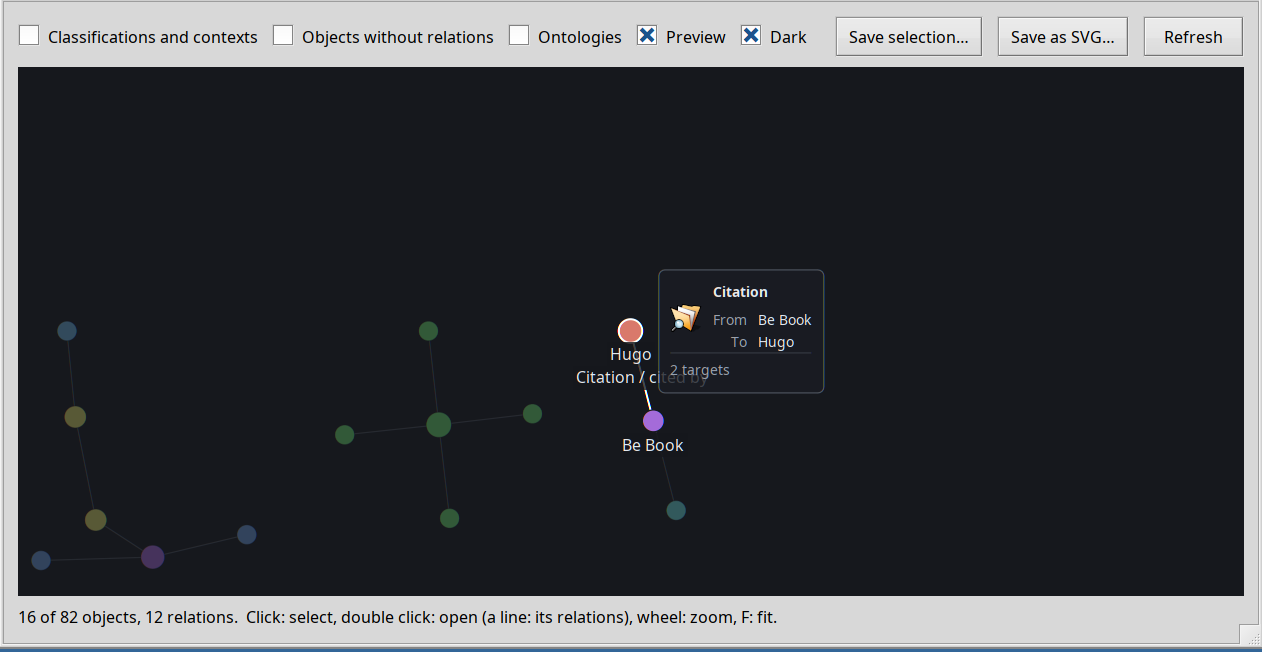
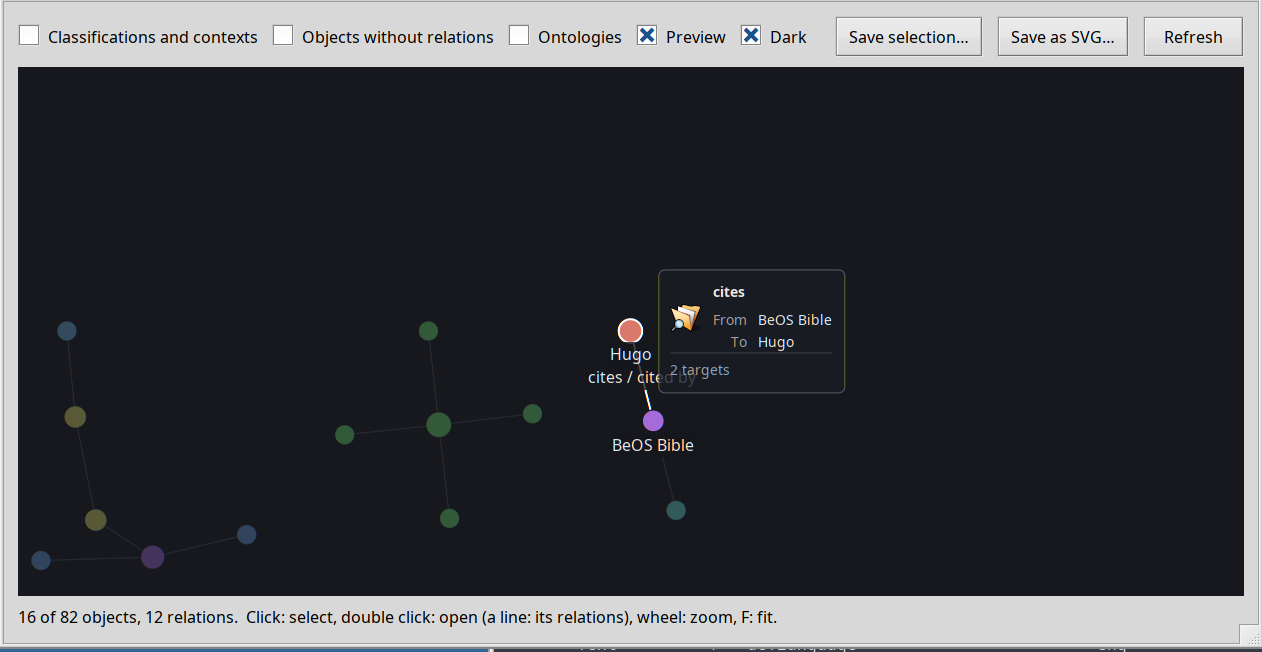
SenKey.h: the SEN key as a setting that the knot and Akita share; release notes of beta 3 reviewed
The notes: the wording of the author (beta 2 introduced the graph view, cards are new), screenshots
with the labels "cites / cited by".

diff --git a/src/cpp/include/SenKey.h b/src/cpp/include/SenKey.h
@@ -1,0 +1,64 @@
+/*
+ * SPDX-License-Identifier: MIT
+ * SPDX-FileCopyrightText: 2026 SEN Labs e.U.
+ */
+#pragma once
+
+/**
+ * @file SenKey.h
+ * @brief The SEN key: the modifier key that switches a click or a drag to SEN (header only, Haiku only).
+ *
+ * The key is a setting of SEN (`SEN:modifierKey` in the settings of the server, chosen in its Settings window): by default the standard shortcut key of Haiku (B_COMMAND_KEY, which key of the
+ * keyboard that is depends on the key map), or Option, Control or Shift. The programs that look at the key (the knot in the Deskbar, Akita) ask here instead of testing a key of their own.
+ *
+ *     if (sen::SenKeyIsDown()) ...      // in a click or a drag
+ */
+
+#include <Autolock.h>
+#include <File.h>
+#include <FindDirectory.h>
+#include <InterfaceDefs.h>
+#include <Locker.h>
+#include <Message.h>
+#include <OS.h>
+#include <Path.h>
+
+#include "SenMessages.h"
+
+namespace sen {
+
+/** The modifier of the SEN key: B_COMMAND_KEY (the standard), B_OPTION_KEY, B_CONTROL_KEY or B_SHIFT_KEY. The file of the settings is read once a second, not at every mouse move. */
+inline uint32
+SenModifierKey()
+{
+	static BLocker lock("SEN key");
+	static bigtime_t checked = 0;
+	static uint32 key = B_COMMAND_KEY;
+
+	BAutolock locker(lock);
+	const bigtime_t now = system_time();
+	if (checked != 0 && now - checked < 1000000)
+		return key;
+	checked = now;
+
+	key = B_COMMAND_KEY;
+	BPath path;
+	if (find_directory(B_USER_SETTINGS_DIRECTORY, &path) == B_OK && path.Append("sen") == B_OK && path.Append(config::kSettingsFile) == B_OK) {
+		BFile file(path.Path(), B_READ_ONLY);
+		BMessage settings;
+		int32 stored;
+		if (file.InitCheck() == B_OK && settings.Unflatten(&file) == B_OK && settings.FindInt32(key::kModifierKey, &stored) == B_OK
+				&& (stored == B_COMMAND_KEY || stored == B_OPTION_KEY || stored == B_CONTROL_KEY || stored == B_SHIFT_KEY))
+			key = (uint32) stored;
+	}
+	return key;
+}
+
+/** Whether the SEN key is pressed now. */
+inline bool
+SenKeyIsDown()
+{
+	return (modifiers() & SenModifierKey()) != 0;
+}
+
+}	// namespace sen

diff --git a/docs/release-notes-1.0.0-beta3.md b/docs/release-notes-1.0.0-beta3.md
@@ -5,10 +5,11 @@ SPDX-FileCopyrightText: 2026 SEN Labs e.U.
 
 # SEN 1.0.0 Beta 3 "Sofia" — *Look Closer*
 
-> From the graph to the details of a thing...
+> “Without context, words and actions have no meaning at all.” – Gregory Bateson
 
-Beta 2 let you *see* the graph of your files. Beta 3 lets you **look closer**: select an object and a card shows what is known about it, **Shoji** opens an entity to read and edit its attributes in a form, values that are
-lists *are* lists now, and the plugins ask you when a lookup has more than one answer.
+Beta 2 introduced the graph view. Beta 3 lets you **look closer**: point at an object or a relation and a card shows its metadata.
+
+**Shoji** acts as a universal entity editor that opens files in a template based metadata view, exposing its attributes in a dynamically configurable form. List values are real lists now, and enrichment plugins let you choose from a list of results, weighted by score.
 
 **SEN (Semantic Extensions Native)** on **Haiku R1/beta6 nightlies (x86_64), from hrev60299 on**. If you have beta 2 installed, `pkgman update` brings you here (see *Upgrading* below).
 
@@ -18,64 +19,50 @@ lists *are* lists now, and the plugins ask you when a lookup has more than one a
 > nightly runs every day (`abi-check.sh` in the [akita](https://github.com/sen-laboratories/akita) repository), and a new build follows when a nightly breaks Akita.
 > Because SEN Core requires FileTypes, **this beta needs a Haiku nightly from hrev60299_1 on**; `pkgman update` updates Haiku too (it asks for a reboot).
 
-## Cards for what you point at
+## Cards in the Graph View
 
-Point at a dot in the graph and a **card** appears next to it: the thumbnail or icon of the file, its title and the attributes that matter for its type, and at the bottom **how many relations** it has. The background is
-translucent, so the graph shows through; it is not a window. It replaces the old little pop-up with the name and the number of relations.
+The graph view from beta 2 now shows **cards** when you point at a node or a relation.
+
+A node gets a **card** next to it: the thumbnail or icon of the file, its title and the attributes from the file type definition, and the relation count at the bottom:
 
 <img src="https://raw.githubusercontent.com/sen-laboratories/sento/v1.0.0-beta.3/docs/images/beta3/graph-card-node.png" alt="The graph with the card of a person" width="760">
 
-* **Move the mouse onto the card** (it stays while you go there) and it **lights up** a little; **click it** and the file or folder opens, just as with a double click on the dot.
-* **Which attributes** are in the card, in which order and under which labels is what the **Shoji template** of the type says (so a card and the window of Shoji show the same); a type without a template shows the viewable attributes of
-  its MIME type. What a file does not have is left out, so a card is as small as it can be.
-* **Lists** are shown as simple CSV and are cut in the middle ("Family, Friends, Colle...rs, Haiku Users") when they are too long.
-* **A line (a relation) has a card as well**: the icon of the relation, its label as seen from the end that the mouse is nearer to ("cited by" at one end, "Citation" at the other), the two objects, and how many **targets**
+* **Move the mouse onto the card** and it **lights up** a little; **click it** and the file or folder opens, just as with a double click on the dot.
+* **Attributes** shown on the card, their order and label is defined by the **Shoji template** (an archived BView wired to the attribute names) for the particular type.
+* **Lists** are expanded from CSV style comma separated lists (like the `Groups` attribute for People files) and written back in the original compact format. This allows for more intuitive editing, while keeping full compatibility and efficient storage.
+* **Edges** between nodes represent relations: the icon of the relation, its label as seen from the nearest end ("cites" at one end, "cited by" at the other), the two relation ends, and how many **targets**
   that end has. Move along the line and the card follows; click it to open the folder of those relations.
 
 <img src="https://raw.githubusercontent.com/sen-laboratories/sento/v1.0.0-beta.3/docs/images/beta3/graph-card-relation.png" alt="The card of a relation in the graph" width="760">
 
-* The **Preview** checkbox in the window of the graph switches the cards off. The graph has a filter for **Ontologies** (off by default), like the one for classifications and objects without relations.
+* The **Preview** checkbox in the window of the graph switches the cards off. The graph filters internal types like **Ontologies** (off by default), as well as meta types like classifications, and objects without relations.
+* The **SEN key** (Settings, via the Deskbar knot) now offers the standard Haiku shortcut key first, with the physical key named, and applies to the knot as well.
 
-## Shoji: an entity as a form
+## shōji – a universal template driven entity form editor
 
-**Shoji** is new in the repository: it shows and edits the attributes of a file in a form that belongs to its type. Open a file with it (or *Shoji* from the Applications menu of the Deskbar).
+**Shoji** (from the Japanese word 障子 for paper doors with a wooden frame - symbolizing the template framework and the transparent handling of metadata) is new in the repository: it allows you to view and edit file attributes in a form that adapts to the file type:
 
 <img src="https://raw.githubusercontent.com/sen-laboratories/sento/v1.0.0-beta.3/docs/images/beta3/shoji-book.png" alt="Shoji showing a book with its cover" width="460">
 
-* **Templates** for contacts (`application/x-person`) and books (`entity/x-vnd.sen-labs.entity.book`; the cover is the thumbnail that BERT fetched and sits on the stripe). Any other type gets a generated form with a control for
-  each viewable attribute of its MIME type. A template of your own goes to `~/config/settings/shoji/templates/<MIME type>/template.view` and replaces the one of a package.
-* **Edits are stored as you make them** (Enter, leaving a field, closing the window), not with a Save button; *Revert* puts the file back as it was opened. If somebody else changes an attribute while the window is open, Shoji asks whether to keep
-  your version or take the new one.
+* **Templates** for contacts (`application/x-person`) and books (`entity/x-vnd.sen-labs.entity.book`; the cover is the thumbnail that BERT fetched, nicely tacked to the side). Any other type gets a generated form with a suitable control for each viewable attribute, as defined in the MIME type database. A template of your own goes to `~/config/settings/shoji/templates/<MIME type>/template.view` and replaces the one of a package.
+* **Edits are stored as you make them**. External changes to attribute values while editing them are integrated safely.
 * **A list is a list**: an attribute that its type declares as a list (authors, subjects, the groups of a person) shows as a list of values with *Add* and *Remove*, and the one selected is edited in a field.
 
 <img src="https://raw.githubusercontent.com/sen-laboratories/sento/v1.0.0-beta.3/docs/images/beta3/shoji-contact-list.png" alt="Shoji showing a contact with its groups as a list" width="520">
 
-## Lists of values
-
-An attribute can hold a **list in one string** (`Andy Hunt,Dave Thomas`). Storage and representation are separate: the file keeps the text, a program that knows it is a list shows the values one by one.
-
-* The **attribute info** of the MIME type says so: `SEN:is_list` and the one character `SEN:list_separator`, a comma unless the schema says otherwise (a comma is what People uses for `META:group`). The ontologies write them from
-  their schemas (`is_list: true` on the slot): authors, subjects, languages and publishers of books and papers, ISBN, classification, and the **groups of a person**, including an overlay for the attributes of Haiku's People
-  (`application/x-person`), so the groups of an existing contact are a list as well.
-* The values are split and joined as in CSV: blanks around a value do not belong to it, a value in quotes (`"Hunt, Andy"`) may contain the separator.
 * **SEN FileTypes** has the two fields now: *List of values* (for a String) and *Separator* in the dialog of an attribute.
 
 <img src="https://raw.githubusercontent.com/sen-laboratories/sento/v1.0.0-beta.3/docs/images/beta3/filetypes-list.png" alt="The attribute dialog of FileTypes with List of values and Separator" width="300">
 
-* **BERT and Paperboy** write list values as lists (comma, quotes where needed).
-  *Data written by beta 2 used a semicolon: it shows as one value until the plugin is run on the file again or you edit it.*
+## Enrichment plugins handle multiple results now
 
-## Plugins that ask
-
-When a lookup has **more than one answer**, **BERT** (a book from OpenLibrary) and **Paperboy** (a paper by its title) no longer take the first: a window lists the candidates, the best first, with a bar for how good each is (how close the title
-is to what was asked, how complete and well known the entry is) and the source on the right. `--auto` takes the best without asking (for scripts). BERT also writes the cover as `Media:Thumbnail` and renames the file after the title.
+When a lookup has **more than one answer**, **BERT** (a book from OpenLibrary) and **Paperboy** (a paper by its title) no longer take the first: a window lists the candidates, along with a scoring indicator bar, ordered by match quality (how close the title is to the query, how complete and well known the entry is) and the source on the right. `--auto` takes the best without asking (for scripts). BERT also writes the cover as `Media:Thumbnail` and renames the file after the title.
 
 <img src="https://raw.githubusercontent.com/sen-laboratories/sento/v1.0.0-beta.3/docs/images/beta3/choose-a-paper.png" alt="Choosing one of several papers" width="620">
 
-## The About windows
+## About eye candy
 
-**About SEN** and the About windows of the plugins have the dark stripe with the picture and show the **full version**, from the version resource of the program: `1.0.0-beta.3` (the package is `1.0.0~beta3`; development
-builds of 2.0 show `2.0.0-develop.1`).
+**About SEN** and the About windows of the plugins now have the standard, elegant striped look of Alert dialogs, with the version taken from the version resource: `1.0.0-beta.3` (the package is `1.0.0~beta3`; development builds of 2.0 show `2.0.0-develop.1`):
 
 <img src="https://raw.githubusercontent.com/sen-laboratories/sento/v1.0.0-beta.3/docs/images/beta3/about-sen.png" alt="About SEN with the version 1.0.0-beta.3" width="520">
 
@@ -111,17 +98,20 @@ pkgman install sen_ontology_people sen_ontology_books sen_ontology_papers \
 
 The server starts with your next session (or run `sen start`); `akita start` switches to Akita at once, `akita disable` goes back to the Tracker of Haiku.
 
-## Known limits
+## Known limitations
 
 * The graph shows up to 2000 objects; with more, the status line says how many were read.
 * BFS volumes only, as in beta 1 and 2 (SEN keeps everything in extended attributes).
-* Shoji has templates for contacts and books; other types get the generated form.
+* Shoji currently has templates for contacts and books; other types to follow. As a generic fallback, Shoji will show a dynamic form generated from the file type definition, honoring readonly attributes, and hiding those with their Display flag set to `false`.
 * A Haiku older than hrev60299_1 cannot be used with this beta (Akita would not load there).
 
 ## What comes next
 
-SEN 2.0 "Gnosis": the unified registry of semantic types, an Akita of its own with a graph view next to the list and icon views, a way to walk the graph with nested menus from any file (a "SEN mode" of the context menu),
-and the lists of values as real relations (the groups of a person as a *Collection*).
+Besides probably one last beta and then release candidates for the 1.0 train, I am working at full speed on SEN 2.0 "Gnosis": the unified registry of semantic types in a rich, schema like hierarchy, breaking free from the strict 2-level MIME taxonomy.
+
+Akita will become an independent information browser of its own, with the Shoji form view integrated, more flexible, multi-dimensional attribute views, an integrated graph view, and a way to walk the graph with nested menus from any file (a "SEN mode" of the context menu), and value lists as real relations (e.g., the groups of a person as a *Collection*).
+
+More plugins, templates and ontologies will also follow.
 
 ## Your support is essential
 

diff --git a/docs/user-guide.md b/docs/user-guide.md
@@ -21,7 +21,7 @@ a SEN:ID, as a flat list. With the **SEN key (Command)** held, the click opens t
   and not switched off in the Settings), choosing an ontology shows it in its folder. Choosing *Ontologies* itself opens the folder `~/config/settings/sen/ontologies`, which shows the version, description, author and schema of each ontology as its columns (in Akita), and *Update* has the ontologies of the packages
   installed now, which is otherwise done when the server starts and when a package comes or goes.
 - **Graph...** (below Ontologies): the [graph](#the-graph) of the objects and their relations.
-- **Settings**: the key of the SEN mode of dragging (Command, Option, Control or Shift), the use of Akita instead of Tracker (this takes
+- **Settings**: the SEN key (the standard shortcut key of Haiku, or Option, Control or Shift) that switches dragging, the knot and Akita to SEN, the use of Akita instead of Tracker (this takes
   effect at the next login: it is a file of the user for the launch daemon, which the command `akita` writes; `akita start` and `akita stop` switch at once) and the use of the FileTypes of SEN instead of the one of Haiku (also in the Preferences menu of the Deskbar: a link of its own in `~/config/settings/deskbar/menu/Preferences` takes the place of the one of Haiku).
 - **About**, **Restart** and **Quit**. Restart quits the server and starts it again (it is the way to apply what a new version of the server brings). Quitting asks first: without the
   server, copies of files keep the SEN:ID of the original, which breaks the lookup by ID. It stays off until you start it again (`sen start`, or the next login).
